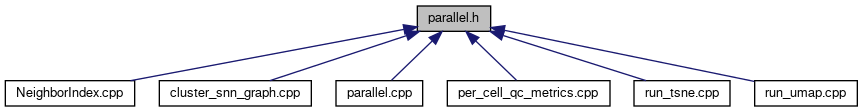
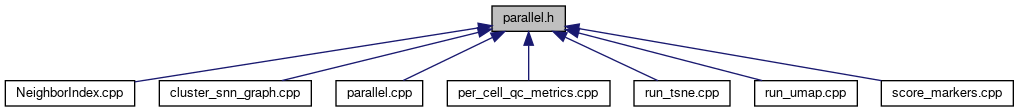
Deploying to gh-pages from @ jkanche/scran.js@58be5098f8036b17df0e4e8a8732ab9bb6563c04 🚀

diff --git a/docs/score__markers_8cpp.html b/docs/score__markers_8cpp.html
@@ -76,7 +76,9 @@ $(function() {
 <div class="textblock"><code>#include &lt;emscripten/bind.h&gt;</code><br />
 <code>#include &quot;<a class="el" href="NumericMatrix_8h_source.html">NumericMatrix.h</a>&quot;</code><br />
 <code>#include &quot;<a class="el" href="utils_8h_source.html">utils.h</a>&quot;</code><br />
+<code>#include &quot;<a class="el" href="parallel_8h_source.html">parallel.h</a>&quot;</code><br />
 <code>#include &quot;scran/differential_analysis/ScoreMarkers.hpp&quot;</code><br />
+<code>#include &quot;tatami/base/DelayedSubsetBlock.hpp&quot;</code><br />
 <code>#include &lt;vector&gt;</code><br />
 <code>#include &lt;algorithm&gt;</code><br />
 <code>#include &lt;cstdint&gt;</code><br />
@@ -85,14 +87,16 @@ Include dependency graph for score_markers.cpp:</div>
 <div class="dyncontent">
 <div class="center"><img src="score__markers_8cpp__incl.png" border="0" usemap="#ascore__markers_8cpp" alt=""/></div>
 <map name="ascore__markers_8cpp" id="ascore__markers_8cpp">
-<area shape="rect" title="Compute marker scores for each gene in each group of cells." alt="" coords="312,5,444,32"/>
+<area shape="rect" title="Compute marker scores for each gene in each group of cells." alt="" coords="377,5,509,32"/>
 <area shape="rect" title=" " alt="" coords="5,87,129,114"/>
 <area shape="rect" href="NumericMatrix_8h.html" title="Javascript wrapper for a numeric matrix." alt="" coords="153,87,269,114"/>
 <area shape="rect" href="utils_8h.html" title=" " alt="" coords="350,87,406,114"/>
 <area shape="rect" title=" " alt="" coords="283,169,342,196"/>
 <area shape="rect" title=" " alt="" coords="449,169,510,196"/>
-<area shape="rect" title=" " alt="" coords="481,80,667,121"/>
-<area shape="rect" title=" " alt="" coords="691,87,766,114"/>
+<area shape="rect" href="parallel_8h.html" title=" " alt="" coords="481,87,555,114"/>
+<area shape="rect" title=" " alt="" coords="579,80,764,121"/>
+<area shape="rect" title=" " alt="" coords="789,80,970,121"/>
+<area shape="rect" title=" " alt="" coords="994,87,1069,114"/>
 <area shape="rect" href="JSVector_8h.html" title=" " alt="" coords="40,169,127,196"/>
 <area shape="rect" title=" " alt="" coords="151,169,259,196"/>
 <area shape="rect" title=" " alt="" coords="51,244,116,271"/>

diff --git a/docs/parallel_8h.html b/docs/parallel_8h.html
@@ -72,13 +72,14 @@ This graph shows which files directly or indirectly include this file:</div>
 <div class="dyncontent">
 <div class="center"><img src="parallel_8h__dep__incl.png" border="0" usemap="#aparallel_8hdep" alt=""/></div>
 <map name="aparallel_8hdep" id="aparallel_8hdep">
-<area shape="rect" title=" " alt="" coords="417,5,491,32"/>
+<area shape="rect" title=" " alt="" coords="492,5,565,32"/>
 <area shape="rect" href="NeighborIndex_8cpp.html" title=" " alt="" coords="5,80,135,107"/>
 <area shape="rect" href="cluster__snn__graph_8cpp.html" title="Identify clusters from a shared nearest&#45;neighbor graph." alt="" coords="159,80,311,107"/>
 <area shape="rect" href="parallel_8cpp.html" title=" " alt="" coords="336,80,423,107"/>
 <area shape="rect" href="per__cell__qc__metrics_8cpp.html" title="Compute per&#45;cell QC metrics from the count matrix." alt="" coords="447,80,610,107"/>
 <area shape="rect" href="run__tsne_8cpp.html" title="Visualize cells with t&#45;SNE." alt="" coords="634,80,730,107"/>
 <area shape="rect" href="run__umap_8cpp.html" title="Visualize cells with UMAP." alt="" coords="755,80,857,107"/>
+<area shape="rect" href="score__markers_8cpp.html" title="Compute marker scores for each gene in each group of cells." alt="" coords="881,80,1013,107"/>
 </map>
 </div>
 </div>
